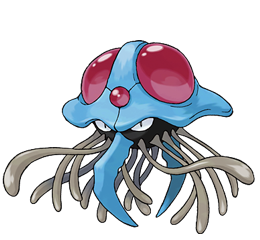
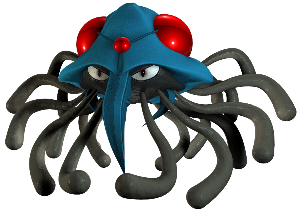
update images to 3d version

diff --git a/gvr-tutorial-lesson5/app/src/main/java/org/gearvrf/balloons/BalloonMain.java b/gvr-tutorial-lesson5/app/src/main/java/org/gearvrf/balloons/BalloonMain.java
@@ -34,6 +34,7 @@ import org.gearvrf.GVRSceneObject;
 import org.gearvrf.GVRSphereCollider;
 import org.gearvrf.GVRTexture;
 import org.gearvrf.IPickEvents;
+import org.gearvrf.scene_objects.GVRCameraSceneObject;
 import org.gearvrf.scene_objects.GVRSphereSceneObject;
 import org.gearvrf.scene_objects.GVRTextViewSceneObject;
 import org.gearvrf.utility.Log;
@@ -45,8 +46,6 @@ import java.util.Random;
 import java.util.Timer;
 import java.util.TimerTask;
 import java.util.concurrent.Future;
-
-import org.gearvrf.scene_objects.GVRCameraSceneObject;
 
 public class BalloonMain extends GVRMain {
 
@@ -197,61 +196,36 @@ public class BalloonMain extends GVRMain {
         //android.util.Log.e(Tag, "enter make ballon...");
 
         String [] pokemon_imgs = new String[] {
-                "Alakazam.png",
-                "Arcanine.png",
-                "ARTICUNO.png",
-                "Blastoise_art.png",
-                "Bulbasaur_art.png",
-                "Celebi.png",
+                "amphaos.png",
+                "bulbashar.png",
                 "Charizard.png",
-                "Charmander.png",
-                "Deoxys.png",
-                "dragonite.png",
-                "Dratini.png",
-                "Eevee.png",
-                "Electabuzz.png",
-                "Entei244.png",
-                "Exeggutor.png",
-                "Gengar.png",
-                "Giratina487.png",
-                "Golem.png",
-                "Gyarados130.png",
-                "Haunter.png",
-                "Jynx.png",
-                "Koffingandweezing.png",
-                "Lapras.png",
-                "Lucario.png",
-                "Machamp.png",
-                "Magikarp.png",
-                "Meowth.png",
-                "Mewtwo.png",
-                "Mime.png",
-                "Moltres.png",
-                "Mudkip.png",
-                "Omastar.png",
-                "Pikachu.png",
-                "Pinsir.png",
-                "Poliwrath.png",
-                "Psyduck.png",
-                "Rapidash.png",
-                "Rayquaza.png",
-                "Rhydon.png",
-                "Snorlax.png",
-                "Squirtle.png",
-                "Starmie.png",
-                "Sugimoris.png",
-                "Tauros.png",
+                "charmander.png",
+                "Coolfeatures.png",
+                "cresselia.png",
+                "evee2.png",
+                "fly.png",
+                "genesect.png",
+                "Ivysaur.png",
+                "Jigglypuff.png",
+                "Landourous.png",
+                "lurario.png",
+                "meloetta.png",
+                "meowth.png",
+                "Ninetales_3d.png",
+                "pikachu.png",
+                "Seedot.png",
+                "snorlax.png",
+                "squirtle.png",
                 "Tentacruel.png",
-                "Togepi.png",
-                "Vaporeon.png",
-                "Venusaur.png",
-                "Victreebel.png",
-                "Zapdos.png"
+                "tornadus.png",
+                "tyranitar.png",
+                "unicorn.png",
+                "Victini.png"
         };
 
         //android.util.Log.e(Tag, "Calling random...");
         Random rand = new Random();
-        int img_index = rand.nextInt(50);
+        int img_index = rand.nextInt(25);
         //android.util.Log.e(Tag, "img_index: " + img_index);
 
 
